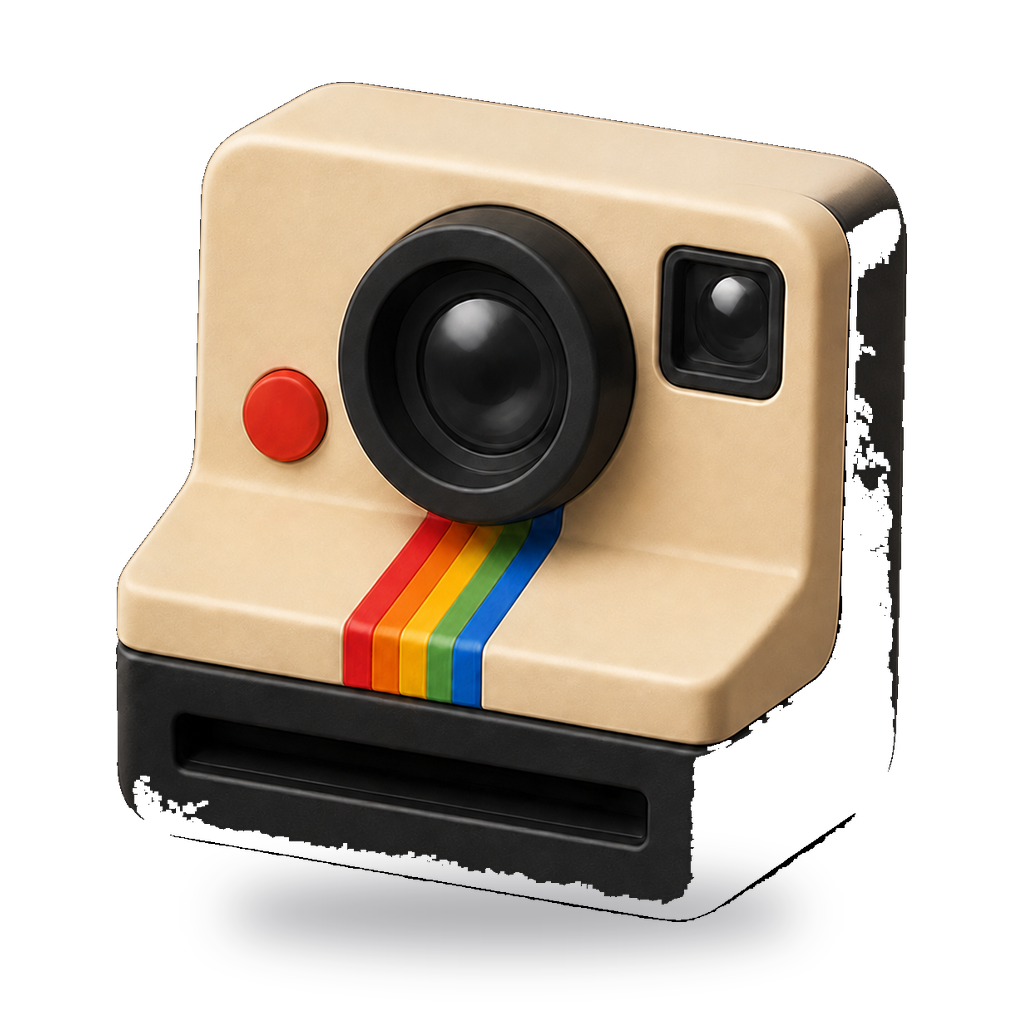
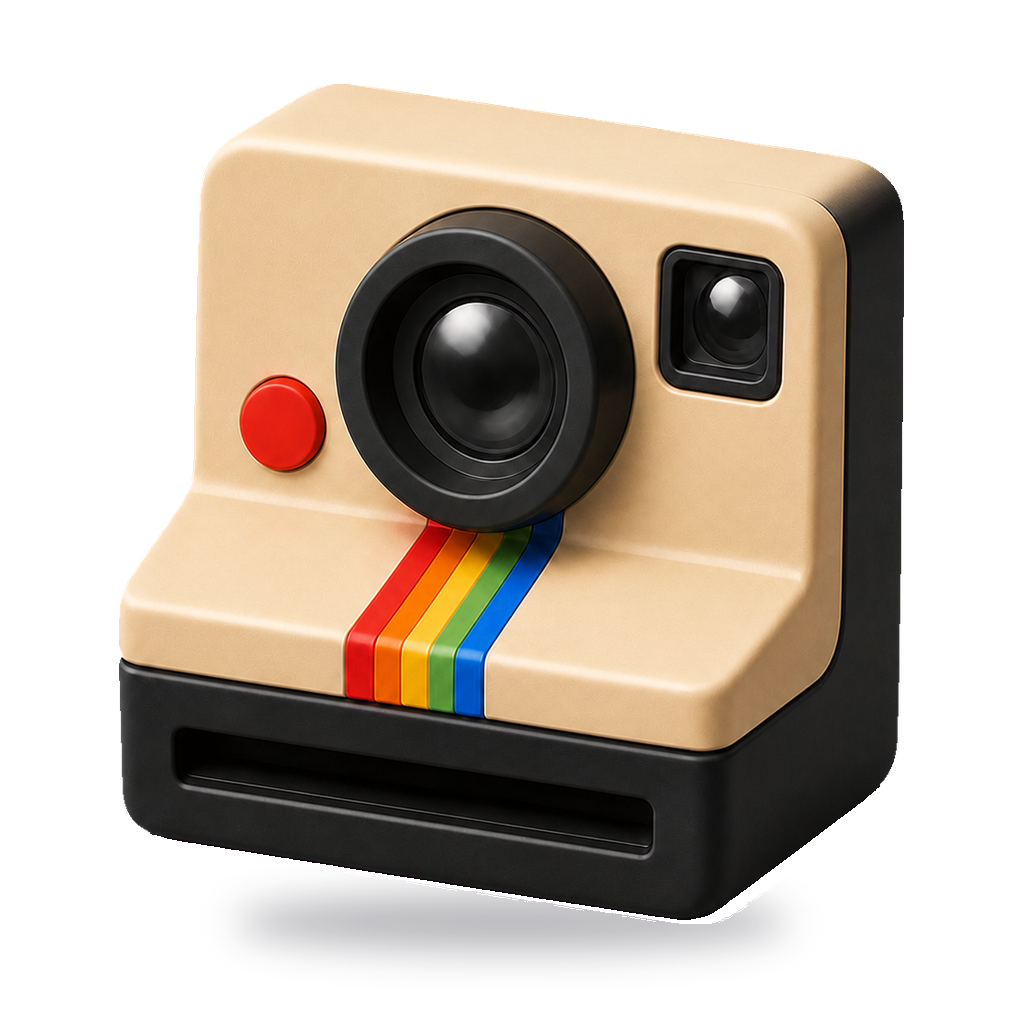
Kamera repariert, Fair Play bekommt ein eigenes Zeichen
Die Kamera aus dem Einzel-Nachschub ist sauber: null Ausrisse, gegen 59 im
HD-Satz und 11 in der ersten Nachlieferung. Auf gesaettigtem, hellem und
dunklem Grund geprueft, rechte Kante, Objektiv und Filmschacht alle intakt.
Der Rahmen stimmt weiter (85,5 % statt 86,0 %, Kasten drei Pixel verschoben),
die weiche Kante faellt von 8,6 auf 4,9 % der Motivpixel - also eine saubere
Erzeugung statt eines nachtraeglich freigestellten Ausschnitts.
COZYQUIZ_FILL fuer camera dadurch 0,84 -> 0,80, neu erzeugt, nicht getippt.

Fair Play hatte nie ein eigenes Bild. Die Folie trug 🤝, und das loest ueber
EMOJI_TO_SLUG `fx-alliance` auf - zwei ineinander gehaengte Ringe, also das
Zeichen fuer BUENDNIS. Ein anderes Wort, das anderswo gebraucht wird. Jetzt
steht dort die Schiedsrichterpfeife: sagt Regel und Schiedsrichter ohne Text,
im Set sonst nicht vergeben. `icon: '🤝'` bleibt als Rueckfall stehen.

fx-fairplay-phone (Handy mit dem Bildschirm nach unten) ist mitinstalliert und
registriert, aber noch nirgends im Einsatz - die einzige Folie, die es tragen
wuerde, ist Fair Play, und dort steht die Pfeife. Wartet auf Wolfs Ansage.

Harness: Station `fairplay` (Regel-Index 4), sonst ist die Folie nur ueber
zweimal Weiterschalten erreichbar.

diff --git a/frontend/src/components/CozyQuizRulesView.tsx b/frontend/src/components/CozyQuizRulesView.tsx
@@ -203,6 +203,12 @@ function buildRulesSlidesDe(totalPhases: 3 | 4): RulesSlide[] {
     {
       // 2026-05-09 (Rules-Audit Wolf): Fair Play / Anti-Google
       icon: '🤝',
+      // 2026-08-25 (Wolf: „ja bau fairplay und phone auch ein"): 🤝 loest ueber
+      // EMOJI_TO_SLUG `fx-alliance` auf, und das ist das Zeichen fuer BUENDNIS.
+      // Fair Play hatte damit nie ein eigenes Bild, sondern lieh sich das einer
+      // anderen Bedeutung. Die Pfeife sagt Regel und Schiedsrichter ohne Text
+      // und ist im Set sonst nicht vergeben. `icon` bleibt als Rueckfall stehen.
+      iconSlug: 'fx-fairplay',
       title: t('rules.slide_fairplay.title', 'Fair Play'),
       color: RULES_SLIDE_COLOR,
       lines: [
@@ -302,6 +308,8 @@ function buildRulesSlidesEn(totalPhases: 3 | 4): RulesSlide[] {
     },
     {
       icon: '🤝',
+      // Siehe die Begruendung an der deutschen Fassung weiter oben.
+      iconSlug: 'fx-fairplay',
       title: t('rules.slide_fairplay.title', 'Fair Play'),
       color: RULES_SLIDE_COLOR,
       lines: [
@@ -362,6 +370,8 @@ function buildMegaRulesSlidesDe(totalPhases: 3 | 4): RulesSlide[] {
     },
     {
       icon: '🤝',
+      // Siehe die Begruendung an der deutschen Fassung weiter oben.
+      iconSlug: 'fx-fairplay',
       title: t('rules.slide_fairplay.title', 'Fair Play'),
       color: RULES_SLIDE_COLOR,
       lines: [
@@ -405,6 +415,8 @@ function buildMegaRulesSlidesEn(totalPhases: 3 | 4): RulesSlide[] {
     },
     {
       icon: '🤝',
+      // Siehe die Begruendung an der deutschen Fassung weiter oben.
+      iconSlug: 'fx-fairplay',
       title: t('rules.slide_fairplay.title', 'Fair Play'),
       color: RULES_SLIDE_COLOR,
       lines: [

diff --git a/frontend/src/components/QQIcon.tsx b/frontend/src/components/QQIcon.tsx
@@ -146,6 +146,11 @@ export type QQIconSlug =
   // Wolf: „ich wollte buch, cozygames rad und top 5 und die kaputten".
   | 'fx-rules'             // aufgeschlagenes Buch. Loest fx-book bei den Regeln ab
   | 'fx-wheel-pointer'     // der Zeiger des Rades, eigene Datei weil er NICHT mitdreht
+  // Fair Play hatte bis hierher kein eigenes Zeichen und borgte sich
+  // `fx-alliance`, die zwei ineinander gehaengten Ringe. Das ist Buendnis, ein
+  // anderes Wort, und es wird anderswo gebraucht.
+  | 'fx-fairplay'          // Schiedsrichterpfeife. Steht auf der Fair-Play-Folie
+  | 'fx-fairplay-phone'    // Handy mit dem Bildschirm nach unten. Zweite Fassung
   | 'react-applause'
   | 'react-fire'
   | 'react-shock'
@@ -202,6 +207,8 @@ const FALLBACK_EMOJI: Record<QQIconSlug, string> = {
   'fx-book':           '📖',
   'fx-rules':          '📖',
   'fx-wheel-pointer':  '🔻',
+  'fx-fairplay':       '🤝',
+  'fx-fairplay-phone': '📵',
   'fx-shield-faction': '🛡',
   'rocket':            '🚀',
   'anker':             '⚓',

diff --git a/frontend/src/cozyquizAvatars.ts b/frontend/src/cozyquizAvatars.ts
@@ -152,7 +152,7 @@ export const COZYQUIZ_FILL: Record<string, number> = {
   'backpack': 0.88,
   'binoculars': 0.83,
   'book': 0.92,
-  'camera': 0.84,
+  'camera': 0.80,
   'candle': 0.92,
   'cassette': 0.80,
   'cheese': 0.84,
